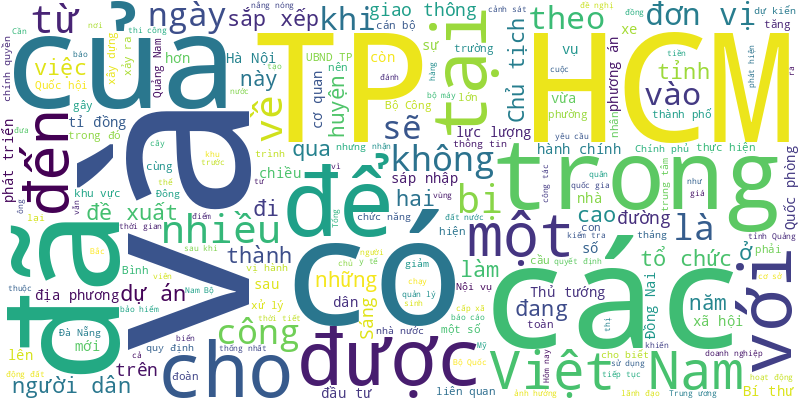
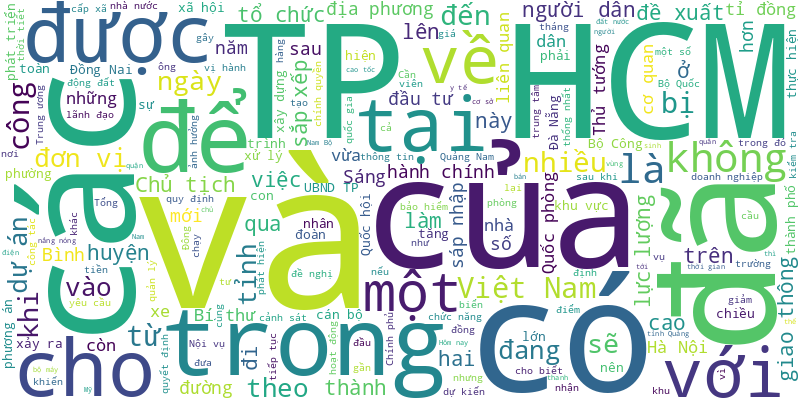
🍀 = 20%

diff --git a/README.md b/README.md
@@ -1,6 +1,10 @@
 # Tuoi Tre RSS 
 
 ## Giáo dục 
+- "Con tôi đã đóng học phí theo quy định nhưng vẫn phải đóng tiền học buổi hai. Cùng một chương trình học, như thế là phải đóng tiền hai lần không?".
+- Việc các trường học ở TP.HCM tổ chức thi học kỳ 2 sớm, từ ngày 8-4, đã dấy lên tranh luận của nhiều phụ huynh.
+- Ngành y ở Nhật Bản nổi bật với độ khó vào cao, chi phí học tập không nhỏ. Hãy tìm hiểu cách các sinh viên vượt qua thử thách này và những tài liệu không thể thiếu cho tân sinh viên ngành y.
+- Trương Thanh Xuân, nữ sinh duy nhất được chọn vào đội tuyển quốc gia dự thi Olympic Toán học quốc tế (IMO), chia sẻ không thức khuya, không "cày đề" mà tìm kiếm "linh hồn", ý tưởng trong từng đề bài.
 - Từ tối ưu hóa bán dẫn, xử lý khí thải đến bao bì tan trong nước và nuôi cua bằng robot, nhiều công trình được giới chuyên môn đánh giá rất cao về tính thực tiễn trong Giải thưởng Sáng tạo TP.HCM năm 2025.
 - Thi vào khoa y tại Nhật không chỉ yêu cầu điểm cao mà còn đòi hỏi sự chuẩn bị kỹ lưỡng môn tiếng Nhật, toán và các môn tự nhiên.
 - Chiều 6-4, tại buổi họp báo Chính phủ thường kỳ, Thứ trưởng thường trực Bộ Giáo dục và Đào tạo Phạm Ngọc Thưởng đã thông tin chính thức về việc "học sinh cấp THCS, THPT sẽ phải học 2 buổi/ngày" được dư luận quan tâm nhiều trong thời gian qua.
@@ -1000,12 +1004,41 @@ Trường đại học Văn Lang được QS xếp hạng top 51-100 thế giớ
 - Nhiều chuyên gia kiến nghị cần phải phối hợp các cơ quan khác nhau, thực hiện các biện pháp pháp lý, đặc biệt ứng dụng công nghệ blockchain, AI để xác định vi phạm sở hữu trí tuệ.
 - 150 trường đại học, các tổ chức giáo dục và kiểm định chất lượng của Việt Nam và các nước ASEAN họp hội nghị bàn về đảm bảo chất lượng giáo dục đại học.
 - Không mặc đồng phục, không đeo phù hiệu nhưng học sinh vẫn dễ dàng điểm danh nhờ phần mềm 'nhà làm' của trường.
-- UBND TP.HCM tiếp tục chính sách đặc thù hỗ trợ học phí năm học 2024-2025, với mức hỗ trợ từ 30.000 - 60.000 đồng/tháng theo từng khu vực.
-- Xét thấy hoàn cảnh đặc biệt khó khăn của Nguyễn Ngọc Như Uyên, hiệu trưởng Trường đại học Công nghiệp TP.HCM quyết định miễn toàn bộ học phí cho sinh viên là 'đôi mắt sáng' của cha mẹ mù này.
-- Kế hoạch ứng dụng bộ sách giáo khoa điện tử tích hợp công nghệ trí tuệ nhân tạo (AI) của Hàn Quốc đang gặp khó do vướng tranh cãi từ các giáo viên, phụ huynh...
-- Nhằm giúp tiết học trở nên sinh động, các giáo viên Trường tiểu học Tân Quới 2 (huyện Thanh Bình, tỉnh Đồng Tháp) đã tự bỏ tiền túi mua tivi giảng dạy cho học sinh.
 ![Edu](Edu.png)
 ## Thời Sự 
+- Thông tin từ Thảo cầm viên Sài Gòn cho biết tối 10-4, đơn vị sẽ tiếp nhận sếu đầu đỏ từ Thái Lan về chăm sóc trước khi thả ra Vườn Quốc gia Tràm Chim, Đồng Tháp.
+- Quý 1- 2025 chứng kiến con số kỷ lục chưa từng có trong lịch sử du lịch Việt Nam.
+- Thị trường xe máy đang điều chỉnh giá tăng đáng kể trong tháng 4-2025, tập trung chủ yếu ở các mẫu xe tay ga của Honda và Yamaha. Ngoài ra, giá xe máy giữa các đại lý bán ra cũng có sự chênh lệch nhất định, đi kèm quà tặng thu hút khách mua.
+- Vụ lật xe khách xảy ra trên quốc lộ 19C đoạn qua huyện Tuy Phước (Bình Định) làm 1 người chết, nhiều người bị thương.
+- Bộ Xây dựng kiến nghị lãnh đạo Chính phủ chấp thuận chủ trương bố trí nguồn vốn tăng thu ngân sách trung ương năm 2024 để mở rộng 83km cao tốc Nội Bài - Lào Cai lên 4 làn xe hoàn chỉnh.
+- Tin tức đáng chú ý: Thủ tướng yêu cầu gỡ dứt điểm vướng mắc dự án ngăn triều 10.000 tỉ ở TP.HCM; Cảnh sát giao thông dùng flycam ghi hình xe vi phạm; Cứu cụ ông bị rắn hổ đất cắn...
+- Hôm nay 8-4, thời tiết miền Bắc nóng ẩm kèm mưa, miền Nam lại nóng bức với nền nhiệt ban ngày cao tới 36 độ C.
+- Sau khoảng 1 tuần thực hiện nhiệm vụ tại Myanmar, đoàn đã độc lập đưa được 7 thi thể nạn nhân bị mắc kẹt trong các tòa nhà bị đổ sập để bàn giao cho gia đình.
+- Nghiên cứu thêm giải pháp hỗ trợ doanh nghiệp căn cứ các kết quả đàm phán, bao gồm việc nghiên cứu chính sách thuế, phí, lệ phí, giảm lãi suất.
+- Một doanh nghiệp bất động sản cho biết do một số nguyên nhân khó khăn nên chậm thanh toán số nợ lãi trái phiếu gần 5 tỉ đồng.
+- Đàn cò nhạn hàng trăm con xuất hiện ở đồng ruộng và gần nhà dân trong một tháng qua, tuy nhiên đông nhất trong khoảng 3 ngày qua.
+- Nha Trang vừa thông báo 'UBND TP Nha Trang không có thẩm quyền và không yêu cầu' dừng, tạm dừng, không giải quyết các thủ tục đăng ký biến động đất đai.
+- Chiều 7-4, xe cộ đông đúc đổ dồn về TP.HCM sau kỳ nghỉ lễ, cao tốc TP.HCM - Long Thành - Dầu Giây ùn ứ nghiêm trọng.
+- Chiếc xe Lexus đang di chuyển trên đường ở Sơn La thì lao lên vỉa hè rồi tông vào một người đi bộ và một chiếc xe máy điện.
+- Trong bối cảnh khí tượng thay đổi thất thường, xe cộ ngày càng tăng... TP.HCM đang đối mặt với thách thức ô nhiễm không khí.
+- Đà Nẵng đang triển khai hàng loạt dự án đình đám như cảng Liên Chiểu, Nobu Residences, New Town, FPT… Vậy tiến độ các dự án đang như thế nào?
+- Dự thảo Bộ luật Hình sự sửa đổi, Bộ Công an đề xuất bổ sung 27 tội dù chỉ chuẩn bị phạm tội vẫn bị xử lý hình sự, trong đó có sản xuất hàng giả là thực phẩm.
+- Lực lượng biên phòng Hải Phòng đã nhanh chóng cứu 4 thuyền viên gặp nạn trên vùng biển Cát Bà (Hải Phòng).
+- Trong năm 2024 và 3 tháng đầu năm 2025, trên địa bàn Đội cảnh sát giao thông An Sương quản lý đã xảy ra 4 vụ tai nạn giao thông liên quan đến người đi bộ, làm 3 người chết.
+- Người nổi tiếng quảng cáo sai sự thật sẽ gây ra nhiều thiệt hại cho xã hội, cho người tiêu dùng, vì vậy cần xử phạt nghiêm khắc hơn so với các trường hợp vi phạm khác.
+- Khi đi trên đường dọc kênh Phú Ninh, nam thanh niên bị ngã xe, rơi xuống kênh, bị trôi nhưng may mắn được lực lượng công an phát hiện và cứu sống.
+- Dịp giỗ Tổ Hùng Vương, đông đảo bạn trẻ và du khách trong lẫn ngoài nước đã đổ về Bảo tàng tranh 3D Đà Nẵng - nơi được xem là bảo tàng tranh 3D lớn nhất Việt Nam.
+- Vụ việc kẹo rau củ Kera bị thu hồi, kết quả kiểm nghiệm sản phẩm không đúng như hồ sơ tự công bố... khiến nhiều người đặt câu hỏi: Tại sao sản phẩm có thành phần công bố không đúng lại được phép đưa ra thị trường?
+- Ngày 7-4, Thủ tướng Phạm Minh Chính đã dẫn đầu đoàn đại biểu Việt Nam viếng và dự lễ truy điệu  nguyên Chủ tịch Đảng Nhân dân cách mạng Lào, nguyên Chủ tịch nước Lào Khamtay Siphandone.
+- Ý kiến góp ý về đề xuất của Bộ Công an bỏ phạt tử hình, thay bằng phạt tù chung thân không xét giảm án với tội tham ô tài sản, nhận hối lộ.
+- Gần 100 con cò nhạn quý hiếm được phát hiện ở TP Huế. Kiểm lâm địa phương này đã lập tức lên kế hoạch bảo vệ.
+- Tỉnh Bà Rịa - Vũng Tàu đang triển khai các bước để sắp xếp lại đơn vị hành chính cấp xã. Tên gọi các xã, phường của tỉnh này sẽ được đặt theo hướng nào?
+- Dự án đường cao tốc Gia Nghĩa - Chơn Thành có thể áp dụng lựa chọn nhà đầu tư trong trường hợp đặc biệt thay cho hình thức đấu thầu rộng rãi trong nước mà không phải điều chỉnh chủ trương đầu tư.
+- Nhiều bạn đọc bày tỏ mong muốn cơ quan chức năng có giải pháp để việc đóng tiền thu gom, vận chuyển rác thuận tiện như đóng tiền điện, nước.
+- Đắk Lắk xuống biển Phú Yên có nhiều tuyến đường, nhưng tuyến huyết mạch và ngắn nhất là quốc lộ 29 lại khá nhỏ hẹp, xuống cấp, đang được đề xuất mở rộng, nâng cấp.
+- Theo cơ quan bảo hiểm, viên chức làm việc tại các đơn vị sự nghiệp chưa đủ điều kiện hưởng lương hưu sẽ được hưởng bảo hiểm thất nghiệp.
+- Liên quan đến nghi án mẹ giết con trục lợi bảo hiểm, trước đó công an làm việc với người livestream trên TikTok không đúng sự thật về vụ việc và chỉ nhắc nhở, không xử phạt.
+- Trong mưa xuân lất phất, dòng người trật tự, thành kính nối tiếp nhau lên các đền thờ Vua Hùng dâng lễ giỗ Tổ sáng 7-4.
 - Sáng nay 7-4, người dân TP.HCM đi qua khu vực bến Bạch Đằng thích thú với dàn pháo lễ được đặt ngay ngắn tại đây để chuẩn bị cho dịp đại lễ 30-4.
 - Thủ tướng Phạm Minh Chính vừa ký công điện số 33/CĐ-TTg về việc tổ chức lễ khởi công, khánh thành các công trình, dự án trọng điểm quốc gia và các công trình chào mừng 50 năm Giải phóng miền Nam, thống nhất đất nước.
 - Chủ tịch nước Lương Cường cùng một số lãnh đạo Đảng, Nhà nước và tỉnh Phú Thọ đã kính cẩn thực hiện nghi lễ dâng hương Quốc Tổ trong ngày giỗ Tổ Hùng Vương tại Đền Hùng, tỉnh Phú Thọ.
@@ -1973,39 +2006,6 @@ Trường đại học Văn Lang được QS xếp hạng top 51-100 thế giớ
 - Hà Nội dự kiến sẽ đặt km0 tại trung tâm sân Khánh tiết, trước khu vực vườn hoa Lý Thái Tổ (quận Hoàn Kiếm, Hà Nội).
 - Trong lúc lái xe, tài xế xe khách vừa lái xe vừa dùng điện thoại chơi game khiến hành khách và người dân bức xúc.
 - Căn nhà 6 tầng trong ngõ xảy ra hỏa hoạn lúc rạng sáng 21-3. Tám người mắc kẹt được giải cứu ra ngoài an toàn, trong đó có trẻ sơ sinh.
-- Giáo sư Nguyễn Văn Tuấn đối thoại cùng Tuổi Trẻ quanh nghị quyết 57, cơ chế thu hút, sử dụng người tài trong nước và quốc tế.
-- Sáng 21-3, UBND TP.HCM tổ chức hội thảo khoa học Xây dựng Trung tâm công nghệ cao đa mục tiêu tại TP.HCM.
-- Bốn ngày trôi qua kể từ vụ tàu chìm làm 3 người mất tích, gia đình các ngư dân ở Nghệ An vẫn mong chờ một phép màu.
-- Văn phòng UBND TP ban hành thông báo chỉ đạo của Chủ tịch UBND TP Trần Sỹ Thanh tại buổi họp nghe báo cáo về việc cải tạo sông Tô Lịch.
-- Sáng 21-3, Hạt Kiểm lâm huyện Tuy Phong, tỉnh Bình Thuận cho biết đã dập tắt đám cháy xảy ra trên núi Tàu, xã Phước Thể, huyện Tuy Phong.
-- Giao hàng cho khách nữ ở tỉnh Bình Dương, nam shipper xảy ra mâu thuẫn dẫn đến cãi vã, bị hai vợ chồng hành hung dẫn đến thương tích.
-- Một trong những vấn đề của kinh tế đêm TP.HCM hiện nay là sự phát triển tự phát, thiếu kiểm soát, đặc biệt là tình trạng "kinh tế vỉa hè" lộn xộn.
-- UBND quận Hoàn Kiếm (Hà Nội) đang triển khai việc lấy ý kiến dân cư với đồ án quy hoạch không gian khu vực quảng trường Đông Kinh - Nghĩa Thục.
-- Vụ tai nạn giao thông nghiêm trọng xảy ra trên quốc lộ 25, thuộc xã Suối Bạc (huyện Sơn Hòa, Phú Yên) giữa 2 xe tải khiến 2 người thiệt mạng.
-- Ngư dân 'tố' nhóm bao chiếm mặt biển Tây Nam ném gạch, đá và bom xăng vào các tàu cá khi đánh bắt do không "chung chi".
-- Làm sao để không tái diễn vụ cựu bí thư Tỉnh ủy Hoàng Thị Thúy Lan giơ ngón tay trỏ bàn tay phải và được Hậu "Pháo" hối lộ 1 triệu USD?
-- Cục Phát thanh, truyền hình và thông tin điện tử đã xử phạt số tiền 140 triệu đồng với Hằng Du Mục và Quang Linh Vlogs do quảng cáo sai sự thật.
-- Một số tin tức đáng chú ý: Giá đất bị 'thổi' cao sau tin sáp nhập; Dự báo lãi suất huy động bình quân 12 tháng về 4,8% năm nay; Một sếp Tập đoàn C.E.O xin nghỉ ngay trước cuộc họp quan trọng; Bị phạt vì quảng cáo, mời chào mua cổ phiếu riêng lẻ.
-- Hôm nay 21-3, thời tiết Nam Bộ tiếp tục nắng nóng oi bức. Bắc Bộ ngày nắng nhưng đêm và sáng rét, Trung Bộ mưa rào.
-- Bé trai 5 tuổi đã phải nhập viện khẩn cấp sau khi nhét cây bút chì dài khoảng 8-10cm vào vùng hậu môn.
-- Chỉ trong thời gian ngắn, nhiều bệnh nhân tại TP.HCM đã nhập viện trong tình trạng suy hô hấp, vật vã, lơ mơ vì sử dụng ma túy "nước biển".
-- Tối 20-3, các lực lượng chức năng huyện Tuy Phong, tỉnh Bình Thuận đang túc trực khu vực núi Tàu để triển khai phương án chữa cháy.
-- Nhắc lại cuộc điện đàm giữa Tổng Bí thư Tô Lâm và Tổng thống Donald Trump khi ông vừa đắc cử, Thượng nghị sĩ Steve Daines khẳng định đây chính là thông điệp coi trọng của nhà lãnh đạo Mỹ với Việt Nam.
-- Đó là thông tin Công an TP.HCM đưa ra tại họp báo định kỳ về tình hình kinh tế - xã hội TP.HCM chiều 20-3, về chỉ đạo xử lý nghiêm cán bộ để xảy ra tình trạng "xe dù, bến cóc" tại địa phương.
-- Trưởng Ban Tổ chức Trung ương Lê Minh Hưng cho hay việc sắp xếp các tổ chức chính trị - xã hội, các hội quần chúng do Đảng, Nhà nước giao nhiệm vụ trực thuộc MTTQ Việt Nam xong trước 15-7.
-- Từ ngày 21 đến 31-3, người dân TP.HCM có thể tham gia bình chọn hoặc đề cử 50 sự kiện nổi bật trong suốt chiều dài lịch sử 50 năm.
-- Bộ Công Thương cho biết vừa tổ chức hội nghị giao ban và trao các quyết định về công tác cán bộ, do bộ trưởng Bộ Công Thương chủ trì.
-- Thủ tướng Phạm Minh Chính đánh giá cao, hoan nghênh những nỗ lực của tỉnh Bà Rịa - Vũng Tàu, các nhà thầu thi công cao tốc Biên Hòa - Vũng Tàu.
-- Việc tỉnh Bình Dương đấu thầu tìm nhà đầu tư làm đường vành đai 4 TP.HCM là một bước tiến mới, trong hành trình triển khai dự án đặc biệt quan trọng của vùng Đông Nam Bộ.
-- Đây là thông tin Phó giám đốc Sở Nội vụ TP.HCM Nguyễn Bắc Nam nêu ra khi thông tin về các chế độ, chính sách hỗ trợ cán bộ, công chức khi sắp xếp, tinh gọn bộ máy.
-- Quận Bình Thạnh (TP.HCM) đã có một số cách chấn chỉnh tình trạng lấn chiếm lòng đường, vỉa hè. Dù có phần nào thay đổi nhưng thực tế vẫn còn những tồn tại, tái diễn khi lực lượng chức năng rút đi.
-- Bộ Nội vụ nhấn mạnh nghiêm cấm chiếm giữ, chuyển giao, hủy trái phép, làm hỏng, thất lạc tài liệu, cơ sở dữ liệu tài liệu trong quá trình sắp xếp bộ máy.
-- 5 phường thuộc quận 3 (TP.HCM) tăng cường tuần tra sau phản ánh của Tuổi Trẻ Online về việc 'ná thủ' bắn lươn, cá trên kênh Nhiêu Lộc - Thị Nghè.
-- Bộ Quốc phòng đang dự thảo nghị định quy định đối với tàu quân sự nước ngoài đến Việt Nam và tàu quân sự Việt Nam đi nước ngoài, thay thế nghị định số 104 của Chính phủ ban hành ngày 5-12-2012.
-- Chiều 20-3, Thủ tướng Phạm Minh Chính đã tiếp đại diện một số nhà đầu tư trực tiếp nước ngoài lớn tại Việt Nam, với tổng số vốn đầu tư lên đến hàng chục tỉ USD. Công ty Hồ Tràm là một trong số đó.
-- Tập đoàn Vingroup đề xuất đầu tư dự án đường sắt đô thị nối trung tâm TP.HCM với huyện Cần Giờ trong vòng 3 năm (từ 2025-2028).
-- Bộ Ngoại giao Việt Nam cho biết nhiều dự án hợp tác giữa Việt Nam và Mỹ đang tiếp tục được triển khai hoặc khởi động lại, trong đó có dự án rà phá bom mìn.
-- UBND thành phố Quy Nhơn (Bình Định) vừa có báo cáo phương án sắp xếp các đơn vị hành chính cấp xã trên địa bàn thành phố khi bỏ chính quyền cấp huyện.
 ![New](News.png)
 ## Nhịp sống số 
 - Theo nguồn tin đáng tin cậy, tin tặc đã đánh cắp tiền tiết kiệm từ một số thành viên của quỹ hưu trí lớn nhất Úc, và xâm phạm hơn 20.000 tài khoản.
